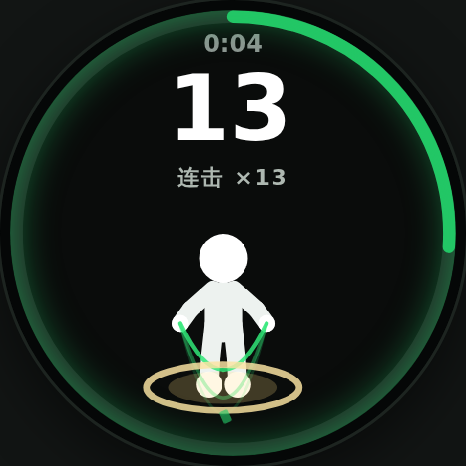
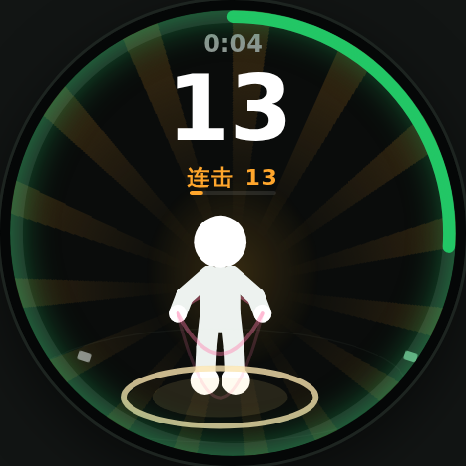
Blood-state combo v2: 0.7s window, two heat levels, charge meter
- Combo window tightens to 0.7s between jumps (tempo constraint);
  any longer gap or a pause resets the chain to zero.
- Heat states replace the 5-tier combo mapping: normal (no glow) ->
  heat 1 at 10 combo (subtle slow rays + faint aura, sfx-only entry) ->
  heat 2 at 30 combo (intense alternating white-hot rays + strong golden
  aura, one-time fanfare + "full power" callout). Losing the chain
  drops the screen back to normal instantly.
- Stars now come from endurance inside heat 2: every 20 jumps held
  (combo 50/70/90...) earns one star with voice celebration.
- New three-stage charge meter under the combo label visualizes
  normal->heat1 (green), heat1->heat2 (orange), and the repeating
  20-jump star cycle in heat 2 (gold, refills after each star).
- Combo label shows from the 5th chained jump; color follows heat level.
- Outer ring unified to one progress arc: freestyle fills clockwise per
  goal (unchanged), timed mode now fills up with elapsed time (last 10s
  turns warm orange), replacing the 60-notch countdown ring.
- PRD FR-4.6/4.7/4.9/4.15 + decision row, audio doc, UI README synced;
  screenshots regenerated. C + backend still deferred until confirmed.

Claude-Session: https://claude.ai/code/session_01MZXpzSkZDw4hTcUnQ2UQRA

diff --git a/docs-and-demo/demo.html b/docs-and-demo/demo.html
@@ -475,12 +475,22 @@
     display: none;
   }
   .a-combo.on { display: block; }
-  .a-combo.c0 { color: #AEB8B1; }
-  .a-combo.c1 { color: #FFA62C; }
-  .a-combo.c2 { color: #FFBA32; }
-  .a-combo.c3 { color: #FFCC36; }
-  .a-combo.c4 { color: #FFDC6E; }
-  .a-combo.c5 { color: #FFF6DC; text-shadow: 0 0 .5em rgba(255,219,128,.8); }
+  .a-combo.c0 { color: #AEB8B1; }                                             /* 普通 */
+  .a-combo.c1 { color: #FFA62C; }                                             /* 热血1 */
+  .a-combo.c2 { color: #FFF6DC; text-shadow: 0 0 .5em rgba(255,219,128,.8); } /* 热血2 */
+  /* 热血蓄力槽(8-26):普通→热血1→热血2 三段进度,位于连击标签下方 */
+  .a-meter {
+    position: absolute; top: 40.6%; left: 50%; transform: translateX(-50%);
+    width: 5.4em; height: .3em; border-radius: .15em;
+    background: rgba(255,255,255,.10); z-index: 3; display: none; overflow: hidden;
+  }
+  .a-meter.on { display: block; }
+  .a-meter i { display: block; height: 100%; width: 0; border-radius: inherit; transition: width .15s linear; }
+  .a-meter.m0 i { background: #7FE3A8; }
+  .a-meter.m1 i { background: #FFA62C; }
+  .a-meter.m2 i { background: linear-gradient(90deg, #FFDB80, #FFF6DC); box-shadow: 0 0 .4em rgba(255,219,128,.7); }
+  /* 限时进度弧最后 10s 转暖橙 */
+  #a-ring-arc.warn { stroke: #FFB020; }
   /* 爆气气场(8-25 试验):连击≥20 火柴人金色气场(超级赛亚人式),档位越高越亮;
      中心与风火轮同心(50%,62%),断连随 opacity 过渡熄灭 */
   .aura {
@@ -893,7 +903,6 @@
           <circle id="a-ring-arc" cx="233" cy="233" r="226" fill="none" stroke="#23C766" stroke-width="13"
                   stroke-linecap="round" stroke-dasharray="1420.0" stroke-dashoffset="1420.0"
                   transform="rotate(-90 233 233)"></circle>
-          <g id="a-ring-ticks" style="display:none"></g>
         </svg>
         <canvas class="skel" id="a-skel" width="466" height="466"></canvas>
         <div class="a-timer" id="a-timer"></div>
@@ -904,6 +913,7 @@
           </div>
         </div>
         <div class="a-combo" id="a-combo-lab"></div>
+        <div class="a-meter" id="a-meter"><i id="a-meter-fill"></i></div>
         <div class="a-bono-slot"><div id="a-bono-jump"></div></div>
         <!-- 暂停控制面板:出框自动 / 单击屏幕手动 两个入口共用;空白处点按=继续 -->
         <div class="pauseveil" id="a-pause">
@@ -1075,7 +1085,7 @@
         <tr><td><b>每一跳</b></td><td>五声音阶"叮" + 数字砸入回弹 + 脚下金色透视涟漪(同帧,延迟 <100ms)</td></tr>
         <tr><td><b>每 10 下</b></td><td>数字重击(1.9×+震屏)+ 火柴人全身金光 0.5s + 语音报数 + 50% 概率小彩带</td></tr>
         <tr><td><b>每 20 下</b></td><td>+2★ 飞星;15% 概率彩蛋双倍 +4★ + 彩带雨 + 专属播报</td></tr>
-        <tr><td><b>连击 Combo</b></td><td>(8-25 试验)两跳间隔 ≤2s 连击 +1,断连(&gt;2s)归零;<b>每满 20 连击 = 1★</b>+语音庆祝;连击 20/40/60/80/100 → 风火轮档1–5"爆气"+ 火柴人金色气场,断连即熄;计数下方连击标签(≥10 显示)</td></tr>
+        <tr><td><b>连击 Combo</b></td><td>(8-26 定稿)两跳间隔 <b>≤0.7s</b> 连击 +1,断连归零;连击 10 → <b>热血1</b>(轻微缓慢光芒),连击 30 → <b>热血2</b>(热烈光芒交替+强气场);<b>热血2 内每保持 20 下 = 1★</b>(连击 50/70/90…)+语音庆祝;计数下方 COMBO 标签(第 5 次起)+ 三段热血蓄力槽</td></tr>
         <tr><td><b>每 50 下</b></td><td>换绳色(星星已改由连击奖励)</td></tr>
         <tr><td><b>隐藏数字</b></td><td>每天 55–99 换一个,踩中 +5★ + 彩带 + 专属播报</td></tr>
         <tr><td><b>达标</b></td><td>彩带 + 数字转暖 + "继续冲!"——绝不打断,51、52 继续数</td></tr>
@@ -1088,7 +1098,7 @@
       <table>
         <tr><td>环(目标/自由)</td><td>一圈 = 一个目标(自由跳 50),跳满清零重画</td></tr>
         <tr><td>环(限时)</td><td><b>60 格时间刻度环</b>:每格=总时长/60(1'=1s/格),逢五长刻度;剩余=亮格从尾端逐格熄灭,最后 10s 转暖橙</td></tr>
-        <tr><td>星星 ★</td><td><b>连击奖励:每满 20 连击一颗</b>(8-25 试验,原每 50 一颗废止;荣誉刻度,全模式统一,不入账);>4 颗收敛为 ★×N</td></tr>
+        <tr><td>星星 ★</td><td><b>连击奖励:热血2 内每保持 20 下一颗</b>(连击 50/70/90…,8-26 定稿;荣誉刻度,全模式统一,不入账);>4 颗收敛为 ★×N</td></tr>
         <tr><td>货币星</td><td>整20 +2 / 彩蛋 ×2 / 隐藏数字 +5 / 达标 +10 → 结算入账,消耗于换装/场景/补签卡</td></tr>
       </table>
     </div>
@@ -1211,7 +1221,7 @@
         <tr><th>项</th><th>规则</th><th>生成</th></tr>
         <tr><td>整十报数</td><td>每 10 下;被更高优占用时让位</td><td>整十句全预生成(10–990 共 99 条;≥1000 只报整百)</td></tr>
         <tr><td>整三十激励/指导</td><td>鼓励/指导五五开,同条本轮不重复</td><td>预生成(池 13 条)</td></tr>
-        <tr><td>连击报星</td><td>每 20 连击一次(压过整十,8-25 试验)</td><td>预生成</td></tr>
+        <tr><td>连击报星</td><td>热血2 内每保持 20 下一次(连击 50/70/90…,压过整十);进入热血2 时播一次"热血全开"</td><td>预生成</td></tr>
         <tr><td>PB 追逐 / 节奏轻推</td><td>每轮各 ≤1 次</td><td>模板+TTS / 预生成</td></tr>
         <tr><td>趣味彩蛋</td><td>自由跳 >3min 启用,~90s 窗口 35% 概率,每轮 ≤3</td><td>预生成(池 ≥20 条按日轮换)</td></tr>
         <tr><td>开场白 / 结算总结 / 榜单播报</td><td>见上卡;动态数字与昵称必须 TTS</td><td>云 TTS 预取,弱网回落无变量兜底句</td></tr>
@@ -1333,8 +1343,8 @@ zh: {
   spTest: m => `${m} 分钟限时测试，全力以赴！请站到镜头前`,
   spStart: o => `${o}。请站到镜头前`,
   cd: ['三', '二', '一', 'Body Park！'], sp30: '还有三十秒', sp10: '最后十秒，冲刺！',
-  spCombo: n => n >= 100 ? `${n} 连击！超级状态！` : n >= 60 ? `${n} 连击，火力全开！` : `连击 ${n}，奖励一颗星！`,
-  comboLab: n => `连击 ×${n}`, spTen: (n, ch) => `${n} 下，${ch}`,
+  spCombo: n => n >= 90 ? `${n} 连击！超级状态！` : n >= 70 ? `${n} 连击，火力全开！` : `连击 ${n}，奖励一颗星！`,
+  spBlood2: '热血全开！保持节奏！', comboLab: n => `连击 ${n}`, spTen: (n, ch) => `${n} 下，${ch}`,
   spLucky: n => `哇，踩中今天的隐藏数字${n}，奖励五颗星！`,
   spGoal: '目标达成！继续保持！', spTop3: '进入全球前三！', spTop1: '全球第一！保持住！',
   spTestBest: (c, r) => `${c} 下，新纪录${r ? `，体测评级${r}` : ''}！`,
@@ -1423,8 +1433,8 @@ en: {
   spTest: m => `${m}-minute timed test. Give it your all! Step in front of the camera`,
   spStart: o => `${o} Step in front of the camera`,
   cd: ['Three', 'Two', 'One', 'Body Park!'], sp30: 'Thirty seconds left', sp10: 'Final ten seconds. Sprint!',
-  spCombo: n => n >= 100 ? `${n} combo — super mode!` : n >= 60 ? `${n} combo, full power!` : `${n} combo — bonus star!`,
-  comboLab: n => `COMBO ×${n}`, spTen: (n, ch) => `${n}! ${ch}`,
+  spCombo: n => n >= 90 ? `${n} combo — super mode!` : n >= 70 ? `${n} combo, full power!` : `${n} combo — bonus star!`,
+  spBlood2: 'Full power! Hold the rhythm!', comboLab: n => `COMBO ${n}`, spTen: (n, ch) => `${n}! ${ch}`,
   spLucky: n => `Wow, you hit today's lucky number ${n}. Five bonus stars!`,
   spGoal: 'Goal reached! Keep it up!', spTop3: 'Top three worldwide!', spTop1: 'World number one! Hold it!',
   spTestBest: (c, r) => `${c} — new record${r ? `, rated ${r}` : ''}!`,
@@ -1577,9 +1587,9 @@ const S = {
   celebPending: false,     // 结果页点「完成」后待弹的恭喜页(8-18:与结果页解耦)
   skipOpening: false,      // 「再跳一轮」不重复播开场白
   ropeCol: ROPE_COLORS[0], // 本轮绳色（开轮随机，每满一圈换新色）
-  combo: 0,                // 连击:两跳间隔 ≤2s 累积,断开归零(8-25 试验)
+  combo: 0,                // 连击:两跳间隔 ≤0.7s 累积,断开归零(8-26 定稿)
   comboMax: 0,             // 本轮最高连击
-  comboStars: 0,           // 连击奖励星:每满 20 连击 +1★(取代旧"每 50 下一星")
+  comboStars: 0,           // 连击奖励星:热血2 内每保持 20 下 +1★(连击 50/70/90…)
   lastJumpT: 0,            // 上一跳时间戳(连击窗口判定)
   seq: 0,                  // 同步序号
 };
@@ -1878,32 +1888,6 @@ function showScreens() {
    逢五长刻度（表盘感）；剩余时间 = 亮格，从尾端逐格熄灭；
    最后 10s 剩余刻度转暖橙。离散熄灭天然适配 15fps。
    ------------------------------------------------------------ */
-(function buildTicks() {
-  const g = document.getElementById('a-ring-ticks');
-  if (!g) return;
-  let h = '';
-  for (let i = 0; i < 60; i++) {
-    const a = (i / 60) * 2 * Math.PI - Math.PI / 2;
-    const major = i % 5 === 0;
-    const r1 = major ? 218 : 222, r2 = major ? 234 : 231;
-    h += `<line x1="${(233 + r1 * Math.cos(a)).toFixed(1)}" y1="${(233 + r1 * Math.sin(a)).toFixed(1)}"` +
-         ` x2="${(233 + r2 * Math.cos(a)).toFixed(1)}" y2="${(233 + r2 * Math.sin(a)).toFixed(1)}"` +
-         ` stroke-width="${major ? 5 : 3.5}" stroke-linecap="round"/>`;
-  }
-  g.innerHTML = h;
-})();
-let lastTickState = '';
-function updateTicks(remFrac, urgent) {
-  const lit = Math.ceil(Math.max(0, Math.min(1, remFrac)) * 60);
-  const key = lit + (urgent ? 'u' : '');
-  if (key === lastTickState) return;
-  lastTickState = key;
-  const col = urgent ? '#FFB020' : '#23C766';
-  [...$('a-ring-ticks').children].forEach((el, i) => {
-    el.setAttribute('stroke', i < lit ? col : 'rgba(255,255,255,.10)');
-  });
-}
-
 let lastRenderedScreen = null;
 let lastRenderedOutfit = null;
 function render() {
@@ -1929,29 +1913,29 @@ function render() {
   const ringUnit = S.goal > 0 ? S.goal : 50;
   const lapPct = (S.count % ringUnit) / ringUnit;
   const lap = Math.floor(S.count / 50);
+  /* 外圈(8-26 定稿):自由=按目标(50/100/200)顺时针蓄满(满环自动重置);
+     限时=按设定时长正计时逐渐填满(最后 10s 转暖橙)——两种模式共用同一条进度弧 */
   const testRing = S.goal === TEST && inJump;
-  $('a-ring-ticks').style.display = testRing ? '' : 'none';
-  $('a-ring-arc').style.display = testRing ? 'none' : '';
-  $('a-ring-base').style.display = testRing ? 'none' : '';
-  if (testRing) {
-    updateTicks(1 - sessionElapsed() / testMs(), testMs() - sessionElapsed() <= 10000);
-  } else {
-    $('a-ring-arc').style.strokeDashoffset = 1420.0 * (1 - lapPct);
-  }
+  const ringPct = testRing ? Math.min(1, sessionElapsed() / testMs()) : lapPct;
+  $('a-ring-arc').style.strokeDashoffset = 1420.0 * (1 - ringPct);
+  $('a-ring-arc').classList.toggle('warn', testRing && testMs() - sessionElapsed() <= 10000);
   /* 星星行 = 连击奖励星(每满 20 连击一颗,8-25 试验) */
   $('a-lapstars').textContent = fmtStars(S.comboStars);
 
-  /* 燃起来档位(8-25 试验改版:与连击挂钩——"爆气"状态,全模式统一):
-     连击 20/40/60/80/100 → 档1橙…档5白热(封顶);断连(>2s 无跳)即全部熄灭;
-     火柴人同步金色气场(超级赛亚人式爆气),档位越高越亮 */
-  const fire = Math.min(5, Math.floor(S.combo / 20));
-  const rayCls = 'rays' + (inJump && fire > 0 ? ' on f' + fire : '');
-  $('a-rays').className = rayCls;
-  $('a-aura').className = 'aura' + (inJump && fire > 0 ? ' on u' + fire : '');
-  /* 连击标签:≥10 显示,颜色随档位升温;断连即隐 */
-  const comboOn = inJump && S.combo >= 10;
+  /* 热血状态视觉(8-26 定稿,全模式统一):
+     普通=无光;热血1(连击≥10)=轻微缓慢光芒+微气场;热血2(连击≥30)=热烈光芒交替+强气场;
+     断连(>0.7s 无跳)即全部熄灭回普通 */
+  const lv = inJump ? bloodLv() : 0;
+  $('a-rays').className = 'rays' + (lv === 1 ? ' on f1' : lv === 2 ? ' on f5' : '');
+  $('a-aura').className = 'aura' + (lv === 1 ? ' on u1' : lv === 2 ? ' on u5' : '');
+  /* 连击标签:第 5 次起显示 COMBO[n];颜色随热血等级升温;断连即隐 */
+  const comboOn = inJump && S.combo >= 5;
   $('a-combo-lab').textContent = comboOn ? L.comboLab(S.combo) : '';
-  $('a-combo-lab').className = 'a-combo' + (comboOn ? ' on c' + fire : '');
+  $('a-combo-lab').className = 'a-combo' + (comboOn ? ' on c' + lv : '');
+  /* 热血蓄力槽:普通=蓄向热血1(0→10)/热血1=蓄向热血2(10→30)/热血2=每 20 下一星循环 */
+  const mPct = lv === 0 ? S.combo / 10 : lv === 1 ? (S.combo - 10) / 20 : ((S.combo - 30) % 20) / 20;
+  $('a-meter').className = 'a-meter' + (inJump ? ' on m' + lv : '');
+  $('a-meter-fill').style.width = (Math.max(0, Math.min(1, mPct)) * 100).toFixed(1) + '%';
 
   /* 课中计时（第一行，小字）；测试模式显示剩余时间 */
   const rawMs = S.goal === TEST ? Math.max(0, testMs() - sessionElapsed()) : sessionElapsed();
@@ -2116,11 +2100,13 @@ const fmtTime = (ms) => {
 const sessionElapsed = () => S.elapsedMs + (S.runSince ? Date.now() - S.runSince : 0);
 const testMs = () => (S.testMin || 1) * 60000;
 const FREE_CAP_MS = 30 * 60000;   /* 自由跳单轮上限（8-18 定稿:30 分钟强制终止,用户不可改;参数服务端可配） */
-const COMBO_GAP = 2000;   /* 连击窗口:两跳间隔 ≤2s 才算连击(8-25 试验,参数可调) */
+const COMBO_GAP = 700;   /* 连击窗口:两跳间隔 ≤0.7s 才算连击(8-26 定稿,参数可调——节奏/耐力约束) */
+/* 热血等级:普通 0(连击<10)/ 热血1(连击≥10,轻微缓慢光芒)/ 热血2(连击≥30,热烈光芒交替) */
+const bloodLv = () => S.combo >= 30 ? 2 : S.combo >= 10 ? 1 : 0;
 let testMark30 = false, testMark10 = false, capMark1 = false;
 setInterval(() => {
   if (S.screen !== 'jump' || S.paused || !S.runSince) return;
-  /* 断连监测:超 2s 未跳 → 连击归零,爆气(风火轮/气场/标签)即时熄灭 */
+  /* 断连监测:超 0.7s 未跳 → 连击归零,热血状态(光芒/气场/标签/蓄力槽)即时熄灭 */
   if (S.combo > 0 && performance.now() - S.lastJumpT > COMBO_GAP) {
     S.combo = 0; bump();
   }
@@ -2130,7 +2116,8 @@ setInterval(() => {
     if (rem <= 0) { endSession(); return; }
     $('a-timer').textContent = fmtTime(rem);
     $('a-timer').classList.toggle('urgent', rem <= 10000);
-    updateTicks(rem / testMs(), rem <= 10000);
+    $('a-ring-arc').style.strokeDashoffset = 1420.0 * (1 - Math.min(1, sessionElapsed() / testMs()));
+    $('a-ring-arc').classList.toggle('warn', rem <= 10000);
     if (rem <= 30000 && !testMark30) { testMark30 = true; speak(L.sp30); }
     if (rem <= 10000 && !testMark10) { testMark10 = true; speak(L.sp10); }
   } else {
@@ -2197,19 +2184,28 @@ function registerJump() {
   if (S.screen !== 'jump' || S.paused) return;
   S.count++;
   profile.total++;
-  /* 连击(8-25 试验):两跳间隔 ≤2s 连击 +1,超窗归 1;
-     每满 20 连击 = 1★ + 语音庆祝(取代旧"每 50 下一星"——鼓励一口气不休息);
-     连击档位同时驱动爆气视觉(风火轮 + 火柴人金色气场),断连即熄 */
+  /* 连击(8-26 定稿):两跳间隔 ≤0.7s 连击 +1,超窗归 1(耐力/节奏约束);
+     热血状态:连击 10 → 热血1(轻微缓慢光芒),连击 30(热血1 内再 20)→ 热血2(热烈光芒交替);
+     热血2 内每保持 20 下(连击 50/70/90…)= +1★ + 语音庆祝;断连归零回普通 */
   const nowT = performance.now();
+  const prevLv = bloodLv();
   S.combo = (nowT - S.lastJumpT <= COMBO_GAP) ? S.combo + 1 : 1;
   S.lastJumpT = nowT;
   if (S.combo > S.comboMax) S.comboMax = S.combo;
-  const comboCele = S.combo % 20 === 0;
-  if (comboCele) {
+  const newLv = bloodLv();
+  const comboStar = S.combo >= 50 && (S.combo - 30) % 20 === 0;   /* 热血2 内每 20 下一星 */
+  let comboCele = comboStar;
+  if (comboStar) {
     S.comboStars++;
     sndStar(); flyStar($('atomRoot'));
-    if (S.combo >= 60) confetti($('atomRoot'), Math.min(8 + S.combo / 10, 20));
+    if (S.combo >= 70) confetti($('atomRoot'), Math.min(8 + S.combo / 10, 20));
     speak(L.spCombo(S.combo));
+  } else if (newLv === 2 && prevLv < 2) {   /* 进入热血2:小号角 + 一次性播报 */
+    comboCele = true;
+    sndFanfare();
+    speak(L.spBlood2);
+  } else if (newLv === 1 && prevLv < 1) {   /* 进入热血1:仅音效提示,不打断报数 */
+    sndMilestone();
   }
   sndJump(S.count);
   popCount(S.count % 10 === 0);   /* 逢十用重击版动画 */
@@ -2232,7 +2228,7 @@ function registerJump() {
       sndStar(); flyStar($('atomRoot'));
     }
     if (S.count % 50 === 0) S.ropeCol = pickRopeColor(S.ropeCol);   /* 每满 50 换绳色(星星已改由连击奖励——8-25 试验) */
-    /* 教练语音分层：连击整 20 优先播连击,整 30 鼓励/纠错指导五五开,其余整十只报数 */
+    /* 教练语音分层：连击星/热血2 播报优先,整 30 鼓励/纠错指导五五开,其余整十只报数 */
     if (!(S.goal > 0 && S.count === S.goal) && !comboCele) {
       if (S.count % 30 === 0) {
         const pool = Math.random() < 0.5 ? L.cheers : L.tips;

diff --git a/docs-and-demo/jump-rope-mini-prd.md b/docs-and-demo/jump-rope-mini-prd.md
@@ -101,15 +101,15 @@ Atom OS 系统入口卡（吉祥物 ATOM + 连续 N 天）
 | FR-4.3 | **骨骼渲染**：AI 喂入 **28 点（BP-28 自研拓扑，AI 后台实际输出）**（归一化坐标，≥15Hz）→ 等宽直杆火柴人（躯干宽 = 2×腿宽，浅白肢体+纯白头/手/脚圆头，手圆头直径 = 臂宽不外凸，规格见[火柴人渲染说明](figure-rendering.md)）；整帧固定缩至 2/3、底边锚定 0.94（顶部 1/3 永久让给数字）；线宽随肩宽缩放（0.55–1.5×）；500ms 无数据回落内置模拟 | 渲染延迟 <100ms；无肩髋凸起、无梯形躯干 |
 | FR-4.4 | **虚拟绳**：**绳色随机**——8 色池（默认翠绿），开轮随机抽色、**每满一圈换新色**（与燃起来升级同拍，构成课中小惊喜）；相位振荡器驱动，转速=实测跳频 EMA；每次计数把相位向"绳过脚下"软校正 40%；绳过下半周画在人前/上半周在人后；3 条残影弧抗低帧率频闪；不跳时淡出（1.2s 全显 + 0.7s 淡出） | 绳与跳跃节拍视觉同步 |
 | FR-4.5 | **触地涟漪**：仅在"判定计数落地"触发；单个透视椭圆环；0 帧最强（金色闪光 + 最粗线宽），0.7s 内爆发扩张-压缩-回弹-消失，与计数动画同一套"打击语法" | 无计数不出现 |
-| FR-4.6 | **进度环与星**：环一圈 = **freestyle goal 目标环**（50/100/200，默认 200——8-18 定稿，原 daily goal 更名），跳满自动重置再来一圈、**再次满环背景升温一档**（更热烈）；★ 改由**连击奖励**（**8-25 试验**：每满 20 连击一颗，见 FR-4.15；原"固定每 50 一颗"废止，每 50 保留换绳色），>4 颗收敛为 ★×N | 限时模式下环切换为时间刻度环（见 FR-4.9） |
-| FR-4.7 | **燃起来·风火轮**（**8-25 试验改版：档位改与连击挂钩——"爆气"状态**，全模式统一；5 档温和递进，以 颜色深浅×疏密×转速 区分）：连击 20 点亮 **档1 暖橙**（15 条·18s）→ 每 +20 连击升一档：**档2 橙金**（18 条·14s，连击 40）→ **档3 金**（20 条·11s，连击 60）→ **档4 亮金**（24 条·8s，连击 80）→ **连击 ≥100 = 档5 白热**（**密度同档4 不再加密**——靠更白的颜色与更快转速表达，5.5s+亮度脉冲+暖晕，封顶）；**断连（>2s 无跳）即全部熄灭**；**放射中心 = 火柴人渲染中心**（50%, 62%，屏幕偏下）；**中心近黑、越到边缘越清楚**（径向遮罩淡出——计数数字与火柴人永不被光芒糊住） | 15fps 下用 steps() 量化旋转；五档转速 18/14/11/8/5.5s |
+| FR-4.6 | **进度环与星**：环一圈 = **freestyle goal 目标环**（50/100/200，默认 200——8-18 定稿，原 daily goal 更名），跳满自动重置再来一圈、**再次满环背景升温一档**（更热烈）；★ 改由**连击/热血奖励**（**8-26 定稿**：热血2 内每保持 20 下一颗，见 FR-4.15；原"固定每 50 一颗"废止，每 50 保留换绳色），>4 颗收敛为 ★×N | 限时模式下同一条进度弧改为正计时填满（见 FR-4.9） |
+| FR-4.7 | **燃起来·热血光芒**（**8-26 定稿：与热血状态挂钩**，全模式统一）：**热血1**（连击 ≥10）= **轻微缓慢光芒**（档1 暖橙样式：15 条·18s·低透明度）；**热血2**（连击 ≥30）= **热烈光芒交替**（档5 白热样式：5.5s 快转 + 亮度脉冲交替 + 暖晕）；**断连（>0.7s 无跳）即全部熄灭回普通**；中间档 2–4 的条纹参数保留为视觉资产（后续可用于热血2 内随星数渐进）；**放射中心 = 火柴人渲染中心**（50%, 62%，屏幕偏下）；**中心近黑、越到边缘越清楚**（径向遮罩淡出——计数数字与火柴人永不被光芒糊住） | 15fps 下用 steps() 量化旋转；五档转速 18/14/11/8/5.5s |
 | FR-4.8 | **达标不打断**：达到目标时彩带 + 语音 + 数字转暖色，继续 51、52… 往上数 | 绝不弹结算；无浮层弹窗 |
-| FR-4.9 | **限时测试（1'/2'，默认 1' 主推——会后修订:恢复 2' 档；1'=中考口径拼爆发、2'=耐力+爆发）**：环变为 **60 格时间刻度环**（每格=总时长/60：1'=1s/格、2'=2s/格；逢五长刻度，表盘感；剩余=亮格从尾端逐格熄灭，最后 10s 剩余刻度转暖橙——离散熄灭天然适配 15fps）；顶部倒计时读秒（最后 10s 转暖橙）；剩 30s/10s 语音节点；时间到自动结算并记历史最佳；**倒计时控件直接复用现有保持类动作倒计时控件，无需新开发（8-18）** | 1'/2' 分别记最佳；1' 月榜上屏主推，2' 月榜后端就绪（入口 P1） |
+| FR-4.9 | **限时测试（1'/2'，默认 1' 主推——会后修订:恢复 2' 档；1'=中考口径拼爆发、2'=耐力+爆发）**：外圈与自由模式**共用同一条进度弧**（8-26 修订，替代 60 格刻度环）：按设定时长**正计时顺时针逐渐填满**（满 = 时间到），最后 10s 弧转暖橙；顶部倒计时读秒（最后 10s 转暖橙）；剩 30s/10s 语音节点；时间到自动结算并记历史最佳；**倒计时读秒复用现有保持类控件（8-18）** | 1'/2' 分别记最佳；1' 月榜上屏主推，2' 月榜后端就绪（入口 P1） |
 | FR-4.10 | **暂停（双入口）**：① 出框/切后台（AI `setPresence(false)`）自动暂停；② **训练中单击屏幕手动暂停**——弹出控制面板 `[继续] [立即结算] [放弃本轮]`，遮罩空白处点按=继续；**放弃本轮 = 计数/时长全部作废、不落档不进结算**（已结算的历史数据不可删）；暂停超 3 分钟自动结算保存（可配 3–5min） | 停表；暂停时长不计入用时与卡路里；出框副文案"回到画面继续"、手动副文案"休息一下" |
 | FR-4.11 | **激励事件**：整 10 报数 + 数字重击闪 + **火柴人全身金光闪烁 0.5s** + 50% 概率飘少量庆祝彩带、整 20 星星+2（15% 概率彩蛋双倍）、每日隐藏数字（55–99）踩中 +5★、实时超越播报、节奏变慢轻推（每轮最多一次） | **课中零浮层弹窗（会后定稿：杜绝一切半透明 toast）**——所有事件反馈 = 语音 + 既有画面元素（数字重击/变色 · 金光 · 彩带 · 环重置）；确需页面级告知时用整屏遮盖式模块（如恭喜页），不用浮层；语音分层：整十报数、整三十鼓励与纠错指导五五开、满圈报星 |
 | FR-4.12 | **计数与纠错**（8-18 修订）：基础计数规则 = **脚踝离地判定**——开合跳等双脚离地动作一并纳入计数，**脚不离地（作弊）不计数**；**V1 暂不做常规纠错，交替跳识别列为后续项**（可通过左右脚踝水平夹角判断动作类型后再提示），接口 `formHint(alternating / single_foot / low_jump / low_light)` 保留；识别能力 ≤3 跳/秒；正对/侧对均支持、引导正对 | 纠错启用后同类提醒 ≥20s 间隔 |
 | FR-4.13 | **自由跳时长上限**（8-18 定稿）：单轮上限 **30 分钟**——强制终止，**用户不可修改**，参数服务端可配（后续按业务调整）；覆盖普通用户减脂（20–30min）与冲榜用户（8–15min）两类场景（"马拉松式跳绳是另一个产品"）；最后 1 分钟语音预告，届满自动结算 | 成绩照常落档 |
-| FR-4.15 | **连击系统 Combo**（**8-25 新增，试验中**）：两跳间隔 **≤2s** 连击 +1，超窗归 1（暂停/停顿即断连）；**每满 20 连击 = 1★**（语音庆祝 + 星星飞入，取代原"每 50 下一星"——鼓励一口气不休息）；连击档位（20/40/60/80/100）同时驱动**爆气视觉**：风火轮 5 档（FR-4.7）+ **火柴人金色气场**（超级赛亚人式，与风火轮同心 50%,62%，档位越高越亮，断连随过渡熄灭）；计数下方**连击标签**（≥10 显示"连击 ×N"，颜色随档位升温）；结算落 `comboMax`；窗口 2s 与奖励步长 20 为服务端可配参数 | 语音优先级：连击整 20 播报压过整十报数；C/后端参考待试验确认后同步 |
+| FR-4.15 | **连击与热血系统**（**8-26 定稿**）：两跳间隔 **≤0.7s** 连击 +1，超窗归 1（暂停/停顿即断连——节奏/耐力约束，防"跳跳停停"）；**热血状态机**：普通（连击 <10，无光）→ **热血1**（连击 ≥10：轻微缓慢光芒 + 微气场，入级仅音效）→ **热血2**（连击 ≥30：热烈光芒交替 + 强气场 + 火柴人金色爆气，入级号角 + 播报"热血全开"一次）；**热血2 内每保持 20 下 = 1★**（连击 50/70/90…：星星飞入 + 语音庆祝，取代原"每 50 下一星"）；**热血蓄力槽**（连击标签下方三段进度条）：普通=蓄向热血1（0→10，绿）/ 热血1=蓄向热血2（10→30，橙）/ 热血2=每 20 下一星循环（金，满即得星归零重蓄）；**连击标签**：第 5 次起显示 `COMBO n`（颜色随热血等级 灰→橙→白热金）；断连全部归零回普通；结算落 `comboMax`；窗口 0.7s、热血阈值 10/30、奖励步长 20 为服务端可配参数 | 语音优先级：连击星/热血2 入级播报压过整十报数；C/后端参考待试验确认后同步 |
 | FR-4.14 | **训练 BGM**：轻量节奏型循环（五声音阶低音与计数叮声同调式，极低音量垫底）；**跳频自适应变速**（96–128BPM 跟随实测跳频，量化防抖、变速不变调——[音频策略 §3](audio-voice-strategy.md)；核心跑通期以固定 110BPM 占位）+ 燃起来强度分层；仅训练中播放，暂停静音、结算即停；设置可关；正式音源与音效包一起新制（不复用课程音效） | 不盖过语音与计数音效 |
 
 ### 5.5 结算与分享
@@ -287,6 +287,7 @@ Atom OS 系统入口卡（吉祥物 ATOM + 连续 N 天）
 | 恭喜页组件（会后补充） | 吸纳 Quick-Voice-Tips-between-sets 的 set-celebration 组件设计：三行堆叠 / 蓄力→爆发 / 分级撒花(flutter+彩纸炮) / 自包含 onDone 模块 | FR-5.1 |
 | 一级导航修订（8-19） | 第四卡**恢复最佳战绩速览**；追加记录不占一级卡位，改为打卡记录页右下「补记」入口的独立二级页；排行榜三榜从顶部小 Tab 改为**横滑 Page View**（小屏免点按，圆点指示，第一榜再右滑=返回） | §4 · FR-6.2/6.3/6.7/6.8 |
 | 连击系统（8-25 试验） | 课中新增**连击 Combo**：两跳 ≤2s 连击累积、断连归零；**每 20 连击 = 1★**（取代每 50 下一星）；风火轮 5 档改绑连击（爆气状态）+ 火柴人金色气场 + 连击标签；试验确认后同步 C/后端参考 | FR-4.6/4.7/4.15 |
+| 连击热血定稿（8-26） | 连击窗口收紧为 **0.7s**；**热血两级**：连击 10 → 热血1（轻微缓慢光芒）、连击 30 → 热血2（热烈光芒交替）；**热血2 内每保持 20 下 = 1★**；新增**三段热血蓄力槽**；COMBO 标签第 5 次起显示；限时外圈改**正计时填满进度弧**（替代 60 格刻度环） | FR-4.6/4.7/4.9/4.15 |
 
 ---
 

diff --git a/docs-and-demo/audio-voice-strategy.md b/docs-and-demo/audio-voice-strategy.md
@@ -29,7 +29,7 @@
 |---|---|---|---|---|
 | `sfx_jump` | 每次有效计数 | ~80ms | 五声音阶循环叮声（连跳时音高沿 C-D-E-G-A 步进，天然"越跳越high"） | 数字砸入动画 |
 | `sfx_jump_heavy` | 逢十计数 | ~150ms | 重击版（低八度加厚），与数字重击帧同拍 | 重击闪 + 金光 |
-| `sfx_star` | 每满 20 连击得星（8-25 试验，原每 50） / 彩蛋 / 隐藏数字 | ~300ms | 上行琶音"叮铃"，奖励感 | 星星飞入 |
+| `sfx_star` | 热血2 内每保持 20 下得星（连击 50/70/90…，8-26 定稿） / 彩蛋 / 隐藏数字 | ~300ms | 上行琶音"叮铃"，奖励感 | 星星飞入 |
 | `sfx_beep` | 倒计时 3·2·1 | ~120ms×3 | 干净短哔，最后一声可微升调 | 136px 大数字 |
 | `sfx_go` | BodyPark 发令帧 | ~400ms | 有冲劲的上扬音（品牌声纹候选位） | 发令帧 0.75s |
 | `sfx_fanfare` | 破纪录 / 达标 / 恭喜页 | ~600ms | 小号式短号角（全包里唯一"隆重"的一条） | 彩带 + 金光 |
@@ -48,7 +48,7 @@
   - **量化防抖**：±4 BPM 一档、只在小节边界切换、连续 2 小节达标才换档（避免速度"呼吸抖动"）；
   - **变速不变调**（time-stretch / 或合成器直接改 tick 间隔——Demo 的合成 BGM 即后者）；
   - 停跳/暂停 → 缓降回基准 110 BPM。
-- **叠加"燃起来"强度分层**：基础层（0–49 下）→ +轻鼓组（50）→ +低音线（100）→ +高帽/energy（150+，封顶）。tempo 管"快慢"、layer 管"厚薄"，两轴独立。（注：视觉风火轮档位已改为**与连击挂钩**五档"爆气"（橙→橙金→金→亮金→白热，8-25 试验）；BGM 厚度仍按每 50 递进——一个表达"密度"、一个表达"里程"，不强绑定。）
+- **叠加"燃起来"强度分层**：基础层（0–49 下）→ +轻鼓组（50）→ +低音线（100）→ +高帽/energy（150+，封顶）。tempo 管"快慢"、layer 管"厚薄"，两轴独立。（注：视觉光芒已改为**热血两级**（热血1 轻微缓慢 / 热血2 热烈交替，与连击挂钩，8-26 定稿）；BGM 厚度仍按每 50 递进——一个表达"密度"、一个表达"里程"，不强绑定。）
 - **落地节奏**：本周核心跑通期用**固定 110BPM 循环占位**（排期决议:核心先行），自适应引擎为本模块正式验收标准。
 - **生命周期**：3·2·1 倒计时不放；发令帧起播；暂停即静音（不是降音量）；结算页停止；恭喜页不放 BGM 只放 fanfare。
 - **闪避**：见 §1；连续播报（如整十连报）之间 <1s 不恢复，避免音量"呼吸"。
@@ -60,7 +60,7 @@
 ```
 P0 破纪录事件（spPbBreak）
 P1 达标 / 时间到 / 恭喜（spGoal / spTestEnd / 新纪录收官）
-P2 连击报星（每 20 连击，8-25 试验） / PB 追逐（差 ≤10）
+P2 连击报星（热血2 内每 20 下）/ 热血2 入级播报 / PB 追逐（差 ≤10）
 P3 整三十激励·指导 / 超越播报 / 彩蛋
 P4 整十报数
 P5 趣味彩蛋（随机低频闲聊）
@@ -93,7 +93,7 @@ P5 趣味彩蛋（随机低频闲聊）
 |---|---|
 | 整十报数 | 每 10 下一次（≤3 字，最短句） |
 | 整三十激励/指导 | 五五开随机，同条本轮不重复 |
-| 连击报星 | 每 20 连击一次（压过整十，8-25 试验；断连归零后重新累积） |
+| 连击报星 | 热血2 内每保持 20 下一次（连击 50/70/90…，压过整十；断连归零后重新累积）；进入热血2 时播一次"热血全开"（8-26 定稿） |
 | PB 追逐播报 | 每轮 ≤1 次（差 ≤10 时） |
 | 节奏轻推 | 每轮 ≤1 次（慢 60%+） |
 | 纠错同类 | ≥20s 间隔（启用后） |

diff --git a/docs-and-demo/ui/README.md b/docs-and-demo/ui/README.md
@@ -15,7 +15,7 @@
 | 08-go-bodypark | 发令帧 | 品牌口号 BodyPark(0.75s) |
 | 09-jumping | 训练屏 | 打击计数 + 骨骼火柴人 + 随机彩绳 |
 | 10-jumping-ripple | 训练屏·涟漪 | 计数落地金色冲击涟漪(0 帧最强) |
-| 11-jumping-fire | 训练屏·燃起来(爆气) | 风火轮五档改与连击挂钩(8-25 试验:连击 20/40/60/80/100 → 橙→橙金→金→亮金→白热,断连即熄)+ 火柴人金色气场 + 连击标签;中心淡出,圆心=火柴人中心(图为档2·橙金) |
+| 11-jumping-fire | 训练屏·热血状态 | 热血两级(8-26 定稿:连击 10→热血1 轻微缓慢光芒/连击 30→热血2 热烈光芒交替+金色气场;热血2 内每 20 下+1★;断连即熄)+ COMBO 标签 + 三段蓄力槽;中心淡出,圆心=火柴人中心(图为热血2) |
 | 12-paused | 暂停遮罩 | 出框/切后台立即暂停,超 3 分钟自动结算 |
 | 13-celebrate | 新纪录恭喜页 | 结果页点「完成」后弹出的自包含庆祝模块(吸纳 set-celebration):三行堆叠+蓄力爆发+金彩纸炮+圆边金光环,可点按跳过 → onDone 回首页 |
 | 14-result | 结果页 | 8-18:训练完成默认直达;大数字 + 状态行 + ★星星·自我对比行 + 今日累计;同时自动生成 466×466 结果分享卡 |
